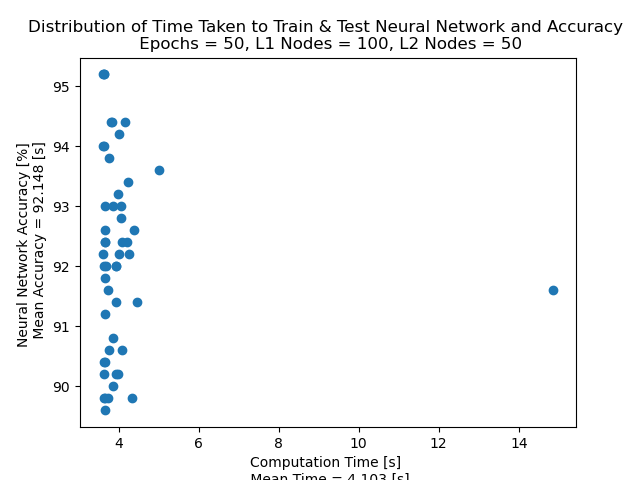
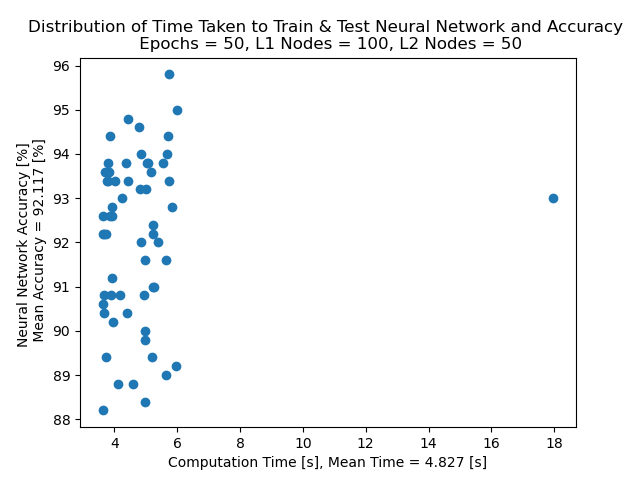
ok

diff --git a/triage_neuralnet.py b/triage_neuralnet.py
@@ -254,4 +254,4 @@ def test_NN_timing(num_epochs, num_tests):
 
 if __name__ == '__main__':
 
-    test_NN_timing(50, 60)
+    test_NN_timing(75, 60)
